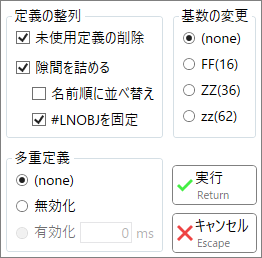
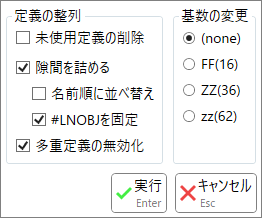
version 0.7.11

Changed region(s): [[0.0, 0.0, 1.0, 1.0], [0.1221, 0.8532, 0.3359, 0.9358], [0.6718, 0.2752, 0.7023, 0.3028]]

diff --git a/docs/bms_info.html b/docs/bms_info.html
@@ -18,9 +18,9 @@
                 <h2>説明</h2>
                 要素をクリックすると説明が表示されます。
                 <div class="image-map" src="img/bms_info.png" maps="
-                      2,  4,191,175, bms/info_statistics.html, center;
-                    195,  4,110,175, bms/info_def.html, center;
-                      1,182,305,320, bms/info_notes.html, center;
+                      1,  1,200,322, bms/info_statistics.html, center;
+                    201,  1, 96,322, bms/info_def.html, center;
+                    297,  1,305,322, bms/info_notes.html, center;
                     ">
                 </div>
                 <ul>
@@ -29,6 +29,74 @@
                     </li>
                     <li>
                         <span class="script">ESC</span>キーを押すとウィンドウを閉じます。
+                    </li>
+                </ul>
+            </div>
+            <div class="stack">
+                <h3>「統計」の各項目について</h3>
+                <ul>
+                    <li>
+                        <b>長さ</b>: この譜面の最初(<span class="script">#000:0</span>)から<b>最後のノートの位置</b>までの間隔です。
+                        <ul>
+                            <li>
+                                <span class="script">全音符 = 1</span>とした<b>帯分数</b>で表記されます。
+                            </li>
+                            <li>
+                                曲全体を通して<span class="script">4/4</span>拍子であれば、整数部分は小節数に等しくなります。
+                            </li>
+                        </ul>
+                    </li>
+                    <li>
+                        <b>演奏時間</b>: 上記「長さ」の値にテンポ変化を加えた実際の演奏時間です。
+                        <ul>
+                            <li>
+                                <b>最後のノート</b>(指揮者やBGMを含む)<b>までの時間</b>を表します。
+                            </li>
+                            <li>
+                                「最後の音が終わるまで」<b>ではない</b>ことにご注意ください。
+                            </li>
+                        </ul>
+                    </li>
+                    <li>
+                        <b>最初の演奏ノート</b>: <b>演奏レーン</b>(<span class="script">1-71</span>)に配置された<b>最初の通常ノート</b>の位置です。
+                        <ul>
+                            <li>
+                                BGMなどその他のレーン、及び通常以外(ロング終端、不可視、地雷)のノートは除外されます。
+                            </li>
+                            <li>
+                                「スタイル」によって非表示となっている演奏レーンのノートを<b>含みます</b>。
+                            </li>
+                        </ul>
+                    </li>
+                    <li>
+                        <b>最後の演奏ノート</b>: <b>演奏レーン</b>(<span class="script">1-71</span>)に配置された<b>最後の通常ノート</b>の位置です。
+                        <ul>
+                            <li>
+                                <b>ロング終端を含みます</b>。地雷と不可視は除外されます。
+                            </li>
+                        </ul>
+                    </li>
+                    <li>
+                        <b>実演奏時間</b>: 「最初の演奏ノート」から「最後の演奏ノート」までの実際の演奏時間です。
+                    </li>
+                    <li>
+                        <b>譜面タイプ</b>: ファイル拡張子と実際のノート配置から推測された、この譜面のタイプです。
+                        <ul>
+                            <li>
+                                <span class="script">beat-7k</span><span class="script">popn-9k</span>などの形式で表示されます。
+                            </li>
+                        </ul>
+                    </li>
+                    <li>
+                        <b>要求分解能</b>: この譜面を正しく解釈するのに必要な、全音符1個あたりの分解能です。
+                        <ul>
+                            <li>
+                                この値がエディタの最大分解能(例:<a href="http://ucn.tokonats.net/software/bmse/" target="_blank">BMSE</a>は<span class="script">192</span>)より大きい場合、この譜面をそのエディタで<b>開いてそのまま保存するだけで曲が崩壊する可能性</b>があります。
+                            </li>
+                            <li>
+                                この値がおよそ<span class="script">900京</span>を超えた場合、表記は<span class="script">-1</span>となり、BmsMaker3が<b>この譜面を正しく解釈できていない可能性</b>があります。
+                            </li>
+                        </ul>
                     </li>
                 </ul>
             </div>

diff --git a/docs/history.html b/docs/history.html
@@ -11,6 +11,63 @@
             <ul>
                 <li>
                     <details open>
+                        <summary class="a-like">Version 0.7.11 (2025/06/07)</summary>
+                        <ul>
+                            <li>
+                                機能追加
+                                <ul>
+                                    <li>
+                                        <a href="bms_multiDef.html">BMSモード/多重定義</a>を追加しました。
+                                        <ul>
+                                            <li>
+                                                実際の音声波形を元に、重複する部分がある場合に多重定義化を行う機能です。
+                                            </li>
+                                            <li>
+                                                <a href="midi_trackOptions.html">Midiモードでの多重定義の指定</a>はまだ残されていますが、将来的に廃止されます。
+                                            </li>
+                                        </ul>
+                                    </li>
+                                </ul>
+                            </li>
+                            <li>
+                                仕様変更
+                                <ul>
+                                    <li>
+                                        <a href="bms.html">BMSモード</a>において、一部機能のショートカットキーを変更しました。
+                                    </li>
+                                    <li>
+                                        <a href="bms_info.html">BMSモード/統計</a>において、以下のように変更しました。
+                                        <ul>
+                                            <li>
+                                                全体的なレイアウトを変更しました。
+                                            </li>
+                                            <li>
+                                                「譜面タイプ」と「要求分解能」の項目を追加しました。
+                                            </li>
+                                            <li>
+                                                「最後の演奏ノート」の算出に、ロング終端を含めるようにしました。
+                                            </li>
+                                        </ul>
+                                    </li>
+                                    <li>
+                                        <a href="bms_defSort.html">BMSモード/定義の整列</a>において、未実装として選択不能となっていた「多重定義の有効化」を削除しました。
+                                    </li>
+                                </ul>
+                            </li>
+                            <li>
+                                不具合修正
+                                <ul>
+                                    <li>
+                                        <a href="bms_defSort.html">BMSモード/定義の整列</a>において、多重定義の無効化が正しく機能していない不具合を修正しました。
+                                    </li>
+                                </ul>
+                            </li>
+                        </ul>
+                        <br>
+                    </details>
+                </li>
+                <li>
+                    <details open>
                         <summary class="a-like">Version 0.7.10 (2025/05/18)</summary>
                         <ul>
                             <li>

diff --git a/docs/bms.html b/docs/bms.html
@@ -70,10 +70,13 @@
                                 <b><a href="bms_slice.html">スライス</a></b>: 1つの<span class="script">.wav</span>音声を複数の定義に分割し、その分割間隔に従って配置できる
                             </li>
                             <li>
+                                <b><a href="bms_reduct.html">定義の削減</a></b>: 同じ内容の<span class="script">.wav</span>ファイルが複数あるかを検出し、それらの重複を取り除く
+                            </li>
+                            <li>
                                 <b><a href="bms_defSort.html">定義の整列</a></b>: 未使用の定義の削除、定義リストの空欄の圧縮、定義<b>基数</b>の変更など
                             </li>
                             <li>
-                                <b><a href="bms_reduct.html">定義の削減</a></b>: 同じ内容の<span class="script">.wav</span>ファイルが複数あるかを検出し、それらの重複を取り除く
+                                <b><a href="bms_multiDef.html">多重定義</a></b>: 同じ音声が連続して鳴らされる場合に、定義を多重化することでノイズを防ぐ
                             </li>
                             <li>
                                 <b><a href="bms_assemble.html">アセンブル</a></b>: 「スライス」とは逆に、複数のノートを1つの<span class="script">.wav</span>音声に統合し、必要に応じて置換を行う
@@ -138,14 +141,15 @@
                     <div class="image-map" src="img/window_bms_tab_function.png" maps="
                           1,  0, 25, 21, common/undo.html;
                          26,  0, 25, 21, common/redo.html;
-                          1, 22, 74, 45, bms/func_info.html;
-                         80, 22, 94, 45, bms/func_selection.html;
-                        172, 22, 99, 45, bms/func_keySort.html;
-                        276, 22, 94, 45, bms/func_sequential.html;
-                        370, 22, 80, 45, bms/func_slice.html;
-                        455, 22,108, 45, bms/func_defSort.html;
-                        562, 22,103, 45, bms/func_reduct.html;
-                        670, 22, 92, 45, bms/func_assemble.html;
+                          1, 22, 68, 45, bms/func_info.html;
+                         74, 22, 94, 45, bms/func_selection.html;
+                        168, 22, 97, 45, bms/func_keySort.html;
+                        270, 22, 94, 45, bms/func_sequential.html;
+                        364, 22, 80, 45, bms/func_slice.html;
+                        449, 22,104, 45, bms/func_reduct.html;
+                        553, 22,105, 45, bms/func_defSort.html;
+                        658, 22, 95, 45, bms/func_multiDef.html;
+                        758, 22, 92, 45, bms/func_assemble.html;
                     "></div>
                     <div id="tab_terminal" src="img/window_bms_tab_terminal.png"></div>
                 </div>

diff --git a/docs/bms/info_statistics.html b/docs/bms/info_statistics.html
@@ -1,53 +1,9 @@
 <h3>統計</h3>
 <ul>
     <li>
-        この譜面の長さに関する各情報です。
+        この譜面に関する各情報です。
     </li>
     <li>
-        <b>長さ</b>: この譜面の最初(<span class="script">#000:0</span>)から<b>最後のノートの位置</b>までの間隔です。
-        <ul>
-            <li>
-                <span class="script">全音符 = 1</span>とした分数で表記されます。
-            </li>
-        </ul>
-    </li>
-    <li>
-        <b>演奏時間</b>: 上記「長さ」の値にテンポ変化を加えた実際の演奏時間です。
-        <ul>
-            <li>
-                秒単位で小数点以下第3位(ミリ秒)まで表記されます。
-            </li>
-            <li>
-                <b>最後のノート</b>(指揮者やBGMを含む)<b>までの時間</b>を表します。<br>
-                「最後の音が終わるまで」<b>ではない</b>ことにご注意ください。
-            </li>
-        </ul>
-    </li>
-    <li>
-        <b>最初の演奏ノート</b>: <b>演奏レーン</b>(<span class="script">1-71</span>)に配置された<b>最初の通常ノート</b>の位置です。
-        <ul>
-            <li>
-                BGMなどその他のレーン、及び通常以外(ロング終端、不可視、地雷)のノートは除外されます。
-            </li>
-            <li>
-                「スタイル」によって非表示となっている演奏レーンのノートを<b>含みます</b>。
-            </li>
-        </ul>
-    </li>
-    <li>
-        <b>最後の演奏ノート</b>: <b>演奏レーン</b>(<span class="script">1-71</span>)に配置された<b>最後の通常ノート</b>の位置です。
-        <ul>
-            <li>
-                「最初の演奏ノート」と同じく<b>ロング終端は含みません</b>。
-            </li>
-        </ul>
-    </li>
-    <li>
-        <b>実演奏時間</b>: 「最初の演奏ノート」から「最後の演奏ノート」までの実際の演奏時間です。
-        <ul>
-            <li>
-                秒単位で小数点以下第3位(ミリ秒)まで表記されます。
-            </li>
-        </ul>
+        詳細は下記『「統計」の各項目について』を参照してください。
     </li>
 </ul>

diff --git a/docs/bms_multiDef.html b/docs/bms_multiDef.html
@@ -1,0 +1,41 @@
+<!DOCTYPE html>
+<html>
+    <head>
+        <meta content="text/html" charset="UTF-8" http-equiv="content-type">
+        <title>BmsMaker3</title>
+        <link rel="shortcut icon" href="favicon.ico">
+        <link rel="stylesheet" type="text/css" href="style.css">
+    </head>
+    <body>
+        <div class="content">
+            <div class="stack">
+                <h1>多重定義</h1>
+                <p>
+                    <span class="script">#WAV</span>定義の多重化を行う機能です。
+                </p>
+                <ul>
+                    <li>
+                        単純な譜面上の配置間隔ではなく、<b>実際の秒数</b>及び<b>音声波形</b>に基づいた判定を行います。
+                    </li>
+                    <li>
+                        同じ音声が連続して鳴らされる場合に発生するクリップノイズを低減あるいは解消する効果があります。
+                    </li>
+                </ul>
+            </div>
+            <div class="stack">
+                <h2>説明</h2>
+                要素をクリックすると説明が表示されます。
+                <div class="image-map" src="img/bms_multiDef.png" maps="
+                      1, 25,178, 32, bms/reduct_id.html;
+                      1, 57,178, 29, bms/multiDef_interval.html;
+                      1, 86,178, 29, bms/multiDef_threshold.html;
+                      1,115,178, 29, bms/multiDef_maxCount.html;
+                      1,143,178, 27, bms/multiDef_insert.html;
+                     29,174, 56, 40, bms/multiDef_execute.html;
+                     93,174, 82, 40, common/cancel_restore.html;">
+                </div>
+            </div>
+        </div>
+        <script type="text/javascript" src="script.js"></script>
+    </body>
+</html>

diff --git a/docs/bms/defSort_multiDef.html b/docs/bms/defSort_multiDef.html
@@ -1,21 +1,14 @@
-<h3>多重定義</h3>
+<h3>多重定義の無効化</h3>
 <ul>
     <li>
-        チェックされたラジオボタンに応じて、以下の処理を追加で行います。
+        チェックした場合、同名のファイルが定義されている異なる番号を、<br>
+        最初の定義番号に変更します。
     </li>
     <li>
-        <b>無効化</b>: 同名のファイルが定義されている異なる番号を、最初の定義番号に変更します。
-        <ul>
-            <li>
-                例:<img src="img/bms_defSort_disable_1.png"/>→<img src="img/bms_defSort_disable_2.png"/>
-            </li>
-            <li>
-                この例では、<span class="script">#WAV09</span>から<span class="script">#WAV0C</span>に渡っていた多重定義が、<br>
-                全て<span class="script">#WAV09</span>に変換されています。
-            </li>
-        </ul>
+        例:<img src="img/bms_defSort_disable_1.png"/>→<img src="img/bms_defSort_disable_2.png"/>
     </li>
     <li>
-        <b>有効化</b>: <b style="color: #f44;">Version 0.6.7 現在未実装</b>
+        この例では、<span class="script">#WAV09</span>から<span class="script">#WAV0C</span>に渡っていた多重定義が、<br>
+        全て<span class="script">#WAV09</span>に変換されています。
     </li>
 </ul>

diff --git a/docs/bms/info_def.html b/docs/bms/info_def.html
@@ -1,9 +1,21 @@
 <h3>使用定義数</h3>
 <ul>
     <li>
-        この譜面で使用されている定義の数を、定義リストの種類ごとに表示するリストです。
+        この譜面で使用されている定義の数を、<br>
+        定義リストの種類ごとに表示するリストです。
     </li>
     <li>
-        <a href="bms_flow.html">制御構造</a>によるランダム分岐の<b>全ての枝の内容を含みます</b>。
+        <a href="bms_flow.html">ランダム分岐</a>の<b>全ての枝の内容を含みます</b>。
+    </li>
+    <li>
+        <b>実際に配置されているノート</b>に基づいて算出されます。
+        <ul>
+            <li>
+                未使用の定義はカウントされません。
+            </li>
+            <li>
+                ノートとして配置されていれば、空白の定義もカウントされます。
+            </li>
+        </ul>
     </li>
 </ul>

diff --git a/docs/bms_defSort.html b/docs/bms_defSort.html
@@ -33,10 +33,10 @@
                      11, 55,147, 25, bms/defSort_reduce.html;
                      27, 81,130, 25, bms/defSort_sort.html;
                      27,107,130, 25, bms/defSort_lnobj.html;
-                    169,  3, 91,139, bms/defSort_base.html;
-                      1,143,167,114, bms/defSort_multiDef.html;
-                    172,165, 85, 40, bms/defSort_execute.html;
-                    172,213, 85, 40, common/cancel_restore.html;">
+                     11,133,147, 25, bms/defSort_multiDef.html;
+                    169,  3, 91,165, bms/defSort_base.html;
+                    111,173, 56, 40, bms/defSort_execute.html;
+                    175,173, 82, 40, common/cancel_restore.html;">
                 </div>
                 <ul>
                     <li>

diff --git a/docs/common/menu.html b/docs/common/menu.html
@@ -89,10 +89,13 @@
                                 <a href="bms_slice.html">スライス</a>
                             </li>
                             <li>
+                                <a href="bms_reduct.html">定義の削減</a>
+                            </li>
+                            <li>
                                 <a href="bms_defSort.html">定義の整列</a>
                             </li>
                             <li>
-                                <a href="bms_reduct.html">定義の削減</a>
+                                <a href="bms_multiDef.html">多重定義</a>
                             </li>
                             <li>
                                 <a href="bms_assemble.html">アセンブル</a>

diff --git a/docs/bms/keySort_meta.html b/docs/bms/keySort_meta.html
@@ -1,7 +1,7 @@
 <h3>メタノートを削除</h3>
 <ul>
     <li>
-        チェックされている場合、整列の前にメタノート(<b>不可視</b>、<b>ロングノート終端</b>、<b>地雷</b>)を全て削除します。
+        チェックした場合、整列の前にメタノート(<b>不可視</b>、<b>ロングノート終端</b>、<b>地雷</b>)を全て削除します。
     </li>
     <li>
         チェックされていない場合は削除されません。特に<b>ロングノート終端</b>がそのまま残る点にはご注意ください。

diff --git a/docs/terminal/hide.html b/docs/terminal/hide.html
@@ -1,7 +1,7 @@
 <h3>子ウィンドウを開くときに隠す</h3>
 <ul>
     <li>
-        チェックされている場合、子ウィンドウ(
+        チェックした場合、子ウィンドウ(
         <a href="bms.html"><img src="img/icons/Bms.png" style="background-color: transparent;"></a>
         <a href="midi.html"><img src="img/icons/Midi.png" style="background-color: transparent;"></a>
         <a href="wave.html"><img src="img/icons/Wave.png" style="background-color: transparent;"></a>

diff --git a/docs/terminal/show.html b/docs/terminal/show.html
@@ -1,7 +1,7 @@
 <h3>全ての子ウィンドウを閉じた時に表示</h3>
 <ul>
     <li>
-        チェックされている場合、全ての子ウィンドウが閉じるとターミナルを再表示します。
+        チェックした場合、全ての子ウィンドウが閉じるとターミナルを再表示します。
     </li>
     <li>
         チェックされて<b>いない</b>場合、全ての子ウィンドウが閉じると非表示のターミナルも終了します。
